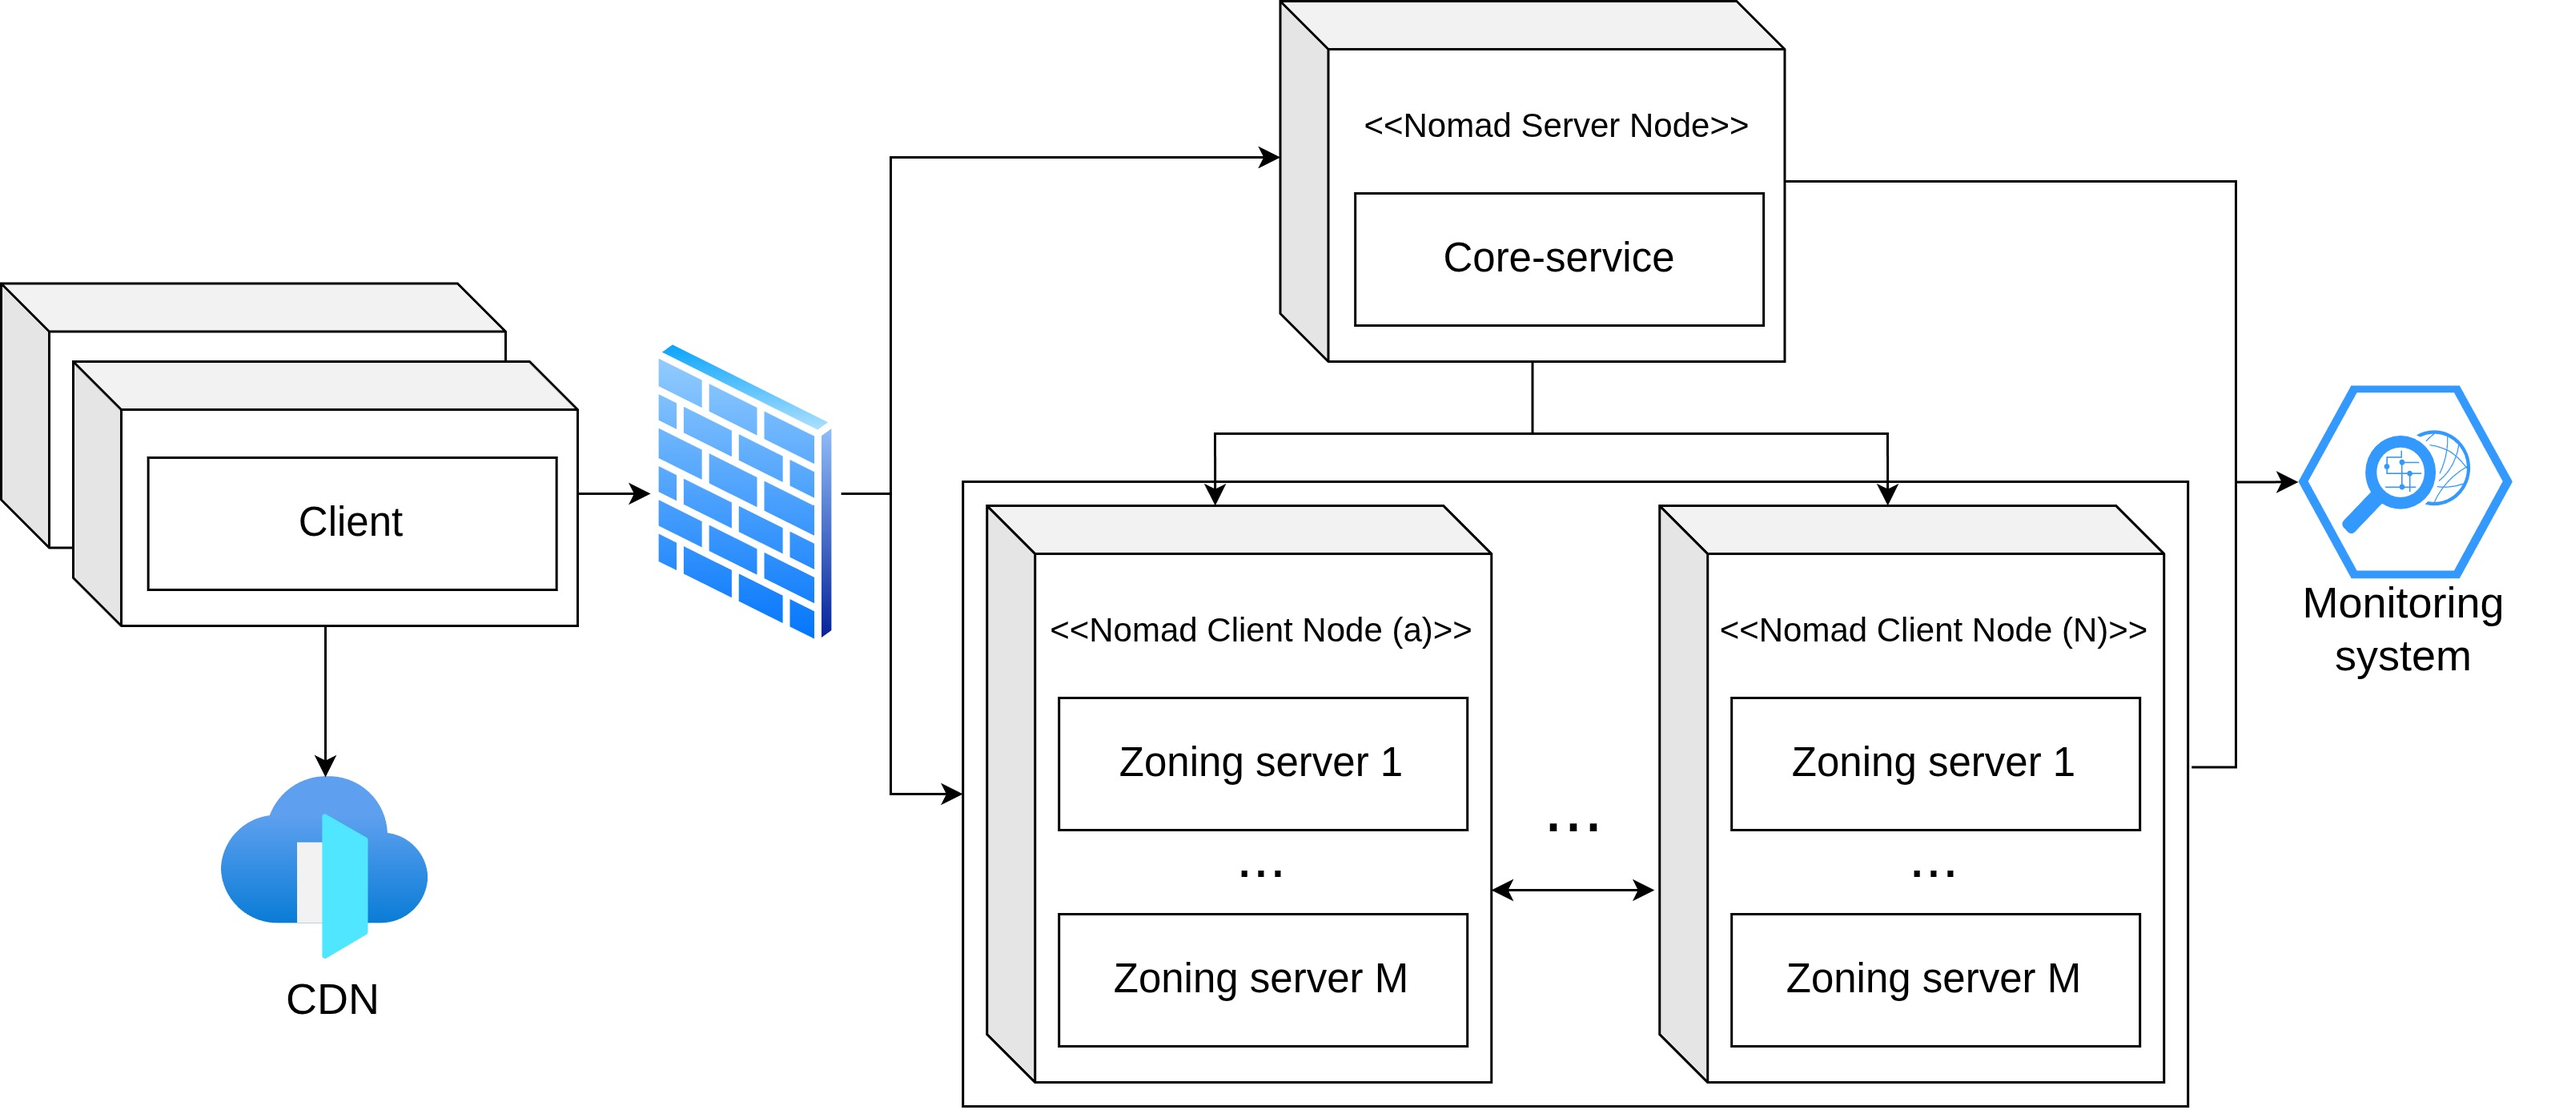
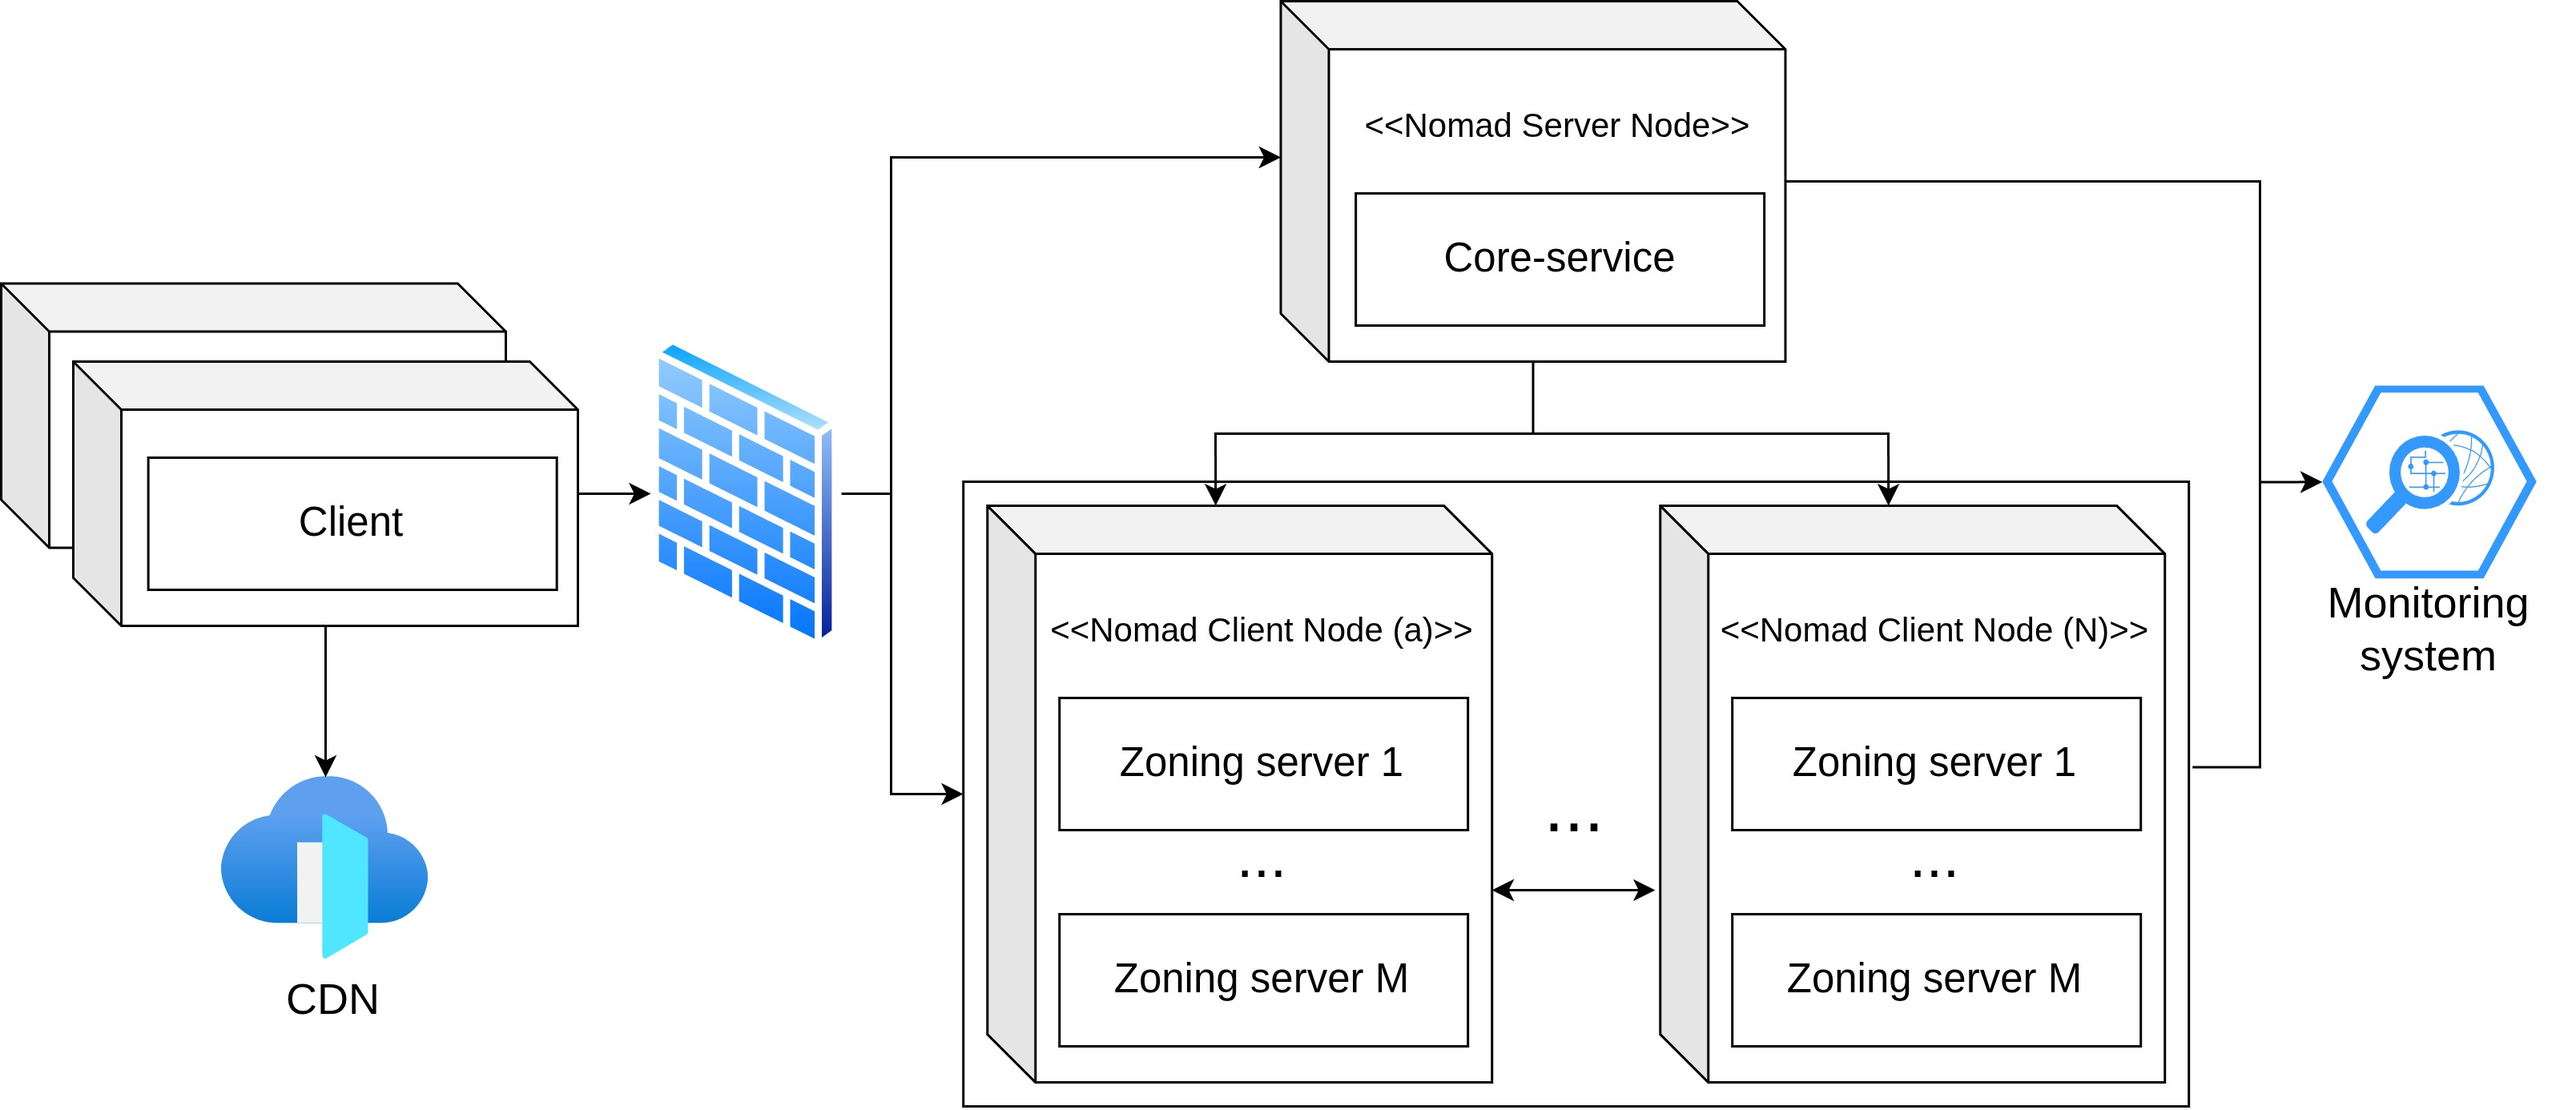
docs: intro to devops & pictures

diff --git a/report/sections/08-implemented-solutions/devops/devops.tex b/report/sections/08-implemented-solutions/devops/devops.tex
@@ -1,7 +1,74 @@
-En esta seccion se 
+% TODO(section): add archi section pointer
+En esta sección se detallan las decisiones infraestructurales tomadas para llevar la arquitectura previamente mencionada y
+abordada en la sección correspondiente a la práctica teniendo en cuenta el uso de recursos de las aplicaciones,
+el presupuesto del equipo y las necesidades actuales, a su vez permitiendo el escalamiento y crecimiento del proyecto.
+
+Por otro lado, se especifica el proceso de integración y despliegue de código de forma continua y por versiones,
+como también las revisiones automatizadas de errores de código, inconsistencia de formatos y de filtrado de credenciales.
 
 \subsubsection{CI/CD \& Workflows}
-CI-CD HERE
+
+\begin{figure}[H]
+\centering
+\includegraphics[width=0.5\textwidth]{img/08-implemented-solution/devops/core-workflow.jpg}
+\caption{Visión general del 'workflow' de integración y despliegue continuo del \textit{core-service}.}
+\end{figure}
+
+\begin{figure}[H]
+\centering
+\includegraphics[width=0.75\textwidth]{img/08-implemented-solution/devops/test-pipeline.jpg}
+\caption{Pipeline de ejecución de Tests.}
+\end{figure}
+
+\begin{figure}[H]
+\centering
+\includegraphics[width=0.75\textwidth]{img/08-implemented-solution/devops/build-pipeline.jpg}
+\caption{Pipeline de construcción de la imagen de docker y subida a ECR.}
+\end{figure}
+
+\begin{figure}[H]
+\centering
+\includegraphics[width=0.8\textwidth]{img/08-implemented-solution/devops/deploy-pipeline.jpg}
+\caption{Pipeline de despliegue del contenedor y ejecución en EC2.}
+\end{figure}
+
+\begin{figure}[H]
+\centering
+\includegraphics[width=0.5\textwidth]{img/08-implemented-solution/devops/server-workflow.jpg}
+\caption{Visión general del 'workflow' de actualización de la imagen de los \textit{ftr-server}.}
+\end{figure}
 
 \subsubsection{Infraestructura}
 INFRASTRUCTURE HERE
+
+\begin{figure}[H]
+\centering
+\includegraphics[width=1\textwidth]{img/08-implemented-solution/devops/deployment.jpg}
+\caption{Product Vision de Feed the Realm.}
+\end{figure}
+
+\begin{figure}[H]
+\centering
+\includegraphics[width=0.5\textwidth]{img/08-implemented-solution/devops/core-robust.jpg}
+\caption{Product Vision de Feed the Realm.}
+\end{figure}
+
+\begin{figure}[H]
+\centering
+\includegraphics[width=0.6\textwidth]{img/08-implemented-solution/devops/nomad-robust.jpg}
+\caption{Product Vision de Feed the Realm.}
+\end{figure}
+
+\begin{figure}[H]
+\centering
+\includegraphics[width=0.6\textwidth]{img/08-implemented-solution/devops/consul-robust.jpg}
+\caption{Product Vision de Feed the Realm.}
+\end{figure}
+
+\begin{figure}[H]
+\centering
+\includegraphics[width=0.65\textwidth]{img/08-implemented-solution/devops/game-robust.jpg}
+\caption{Product Vision de Feed the Realm.}
+\end{figure}
+
+\subsubsection{Actualización de las aplicaciones 'Cliente'}
